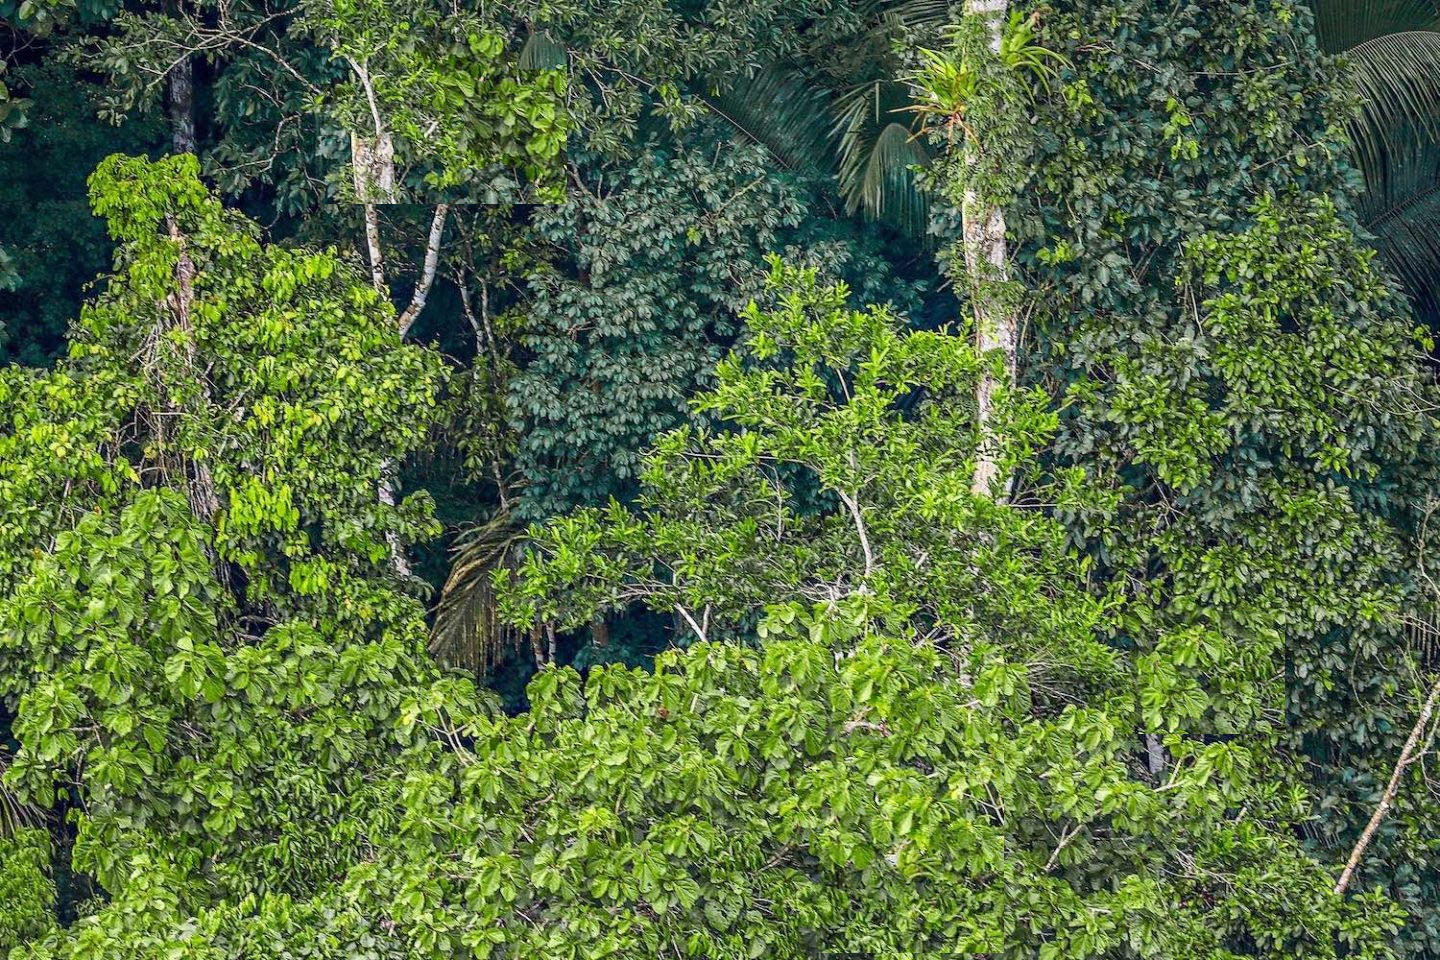
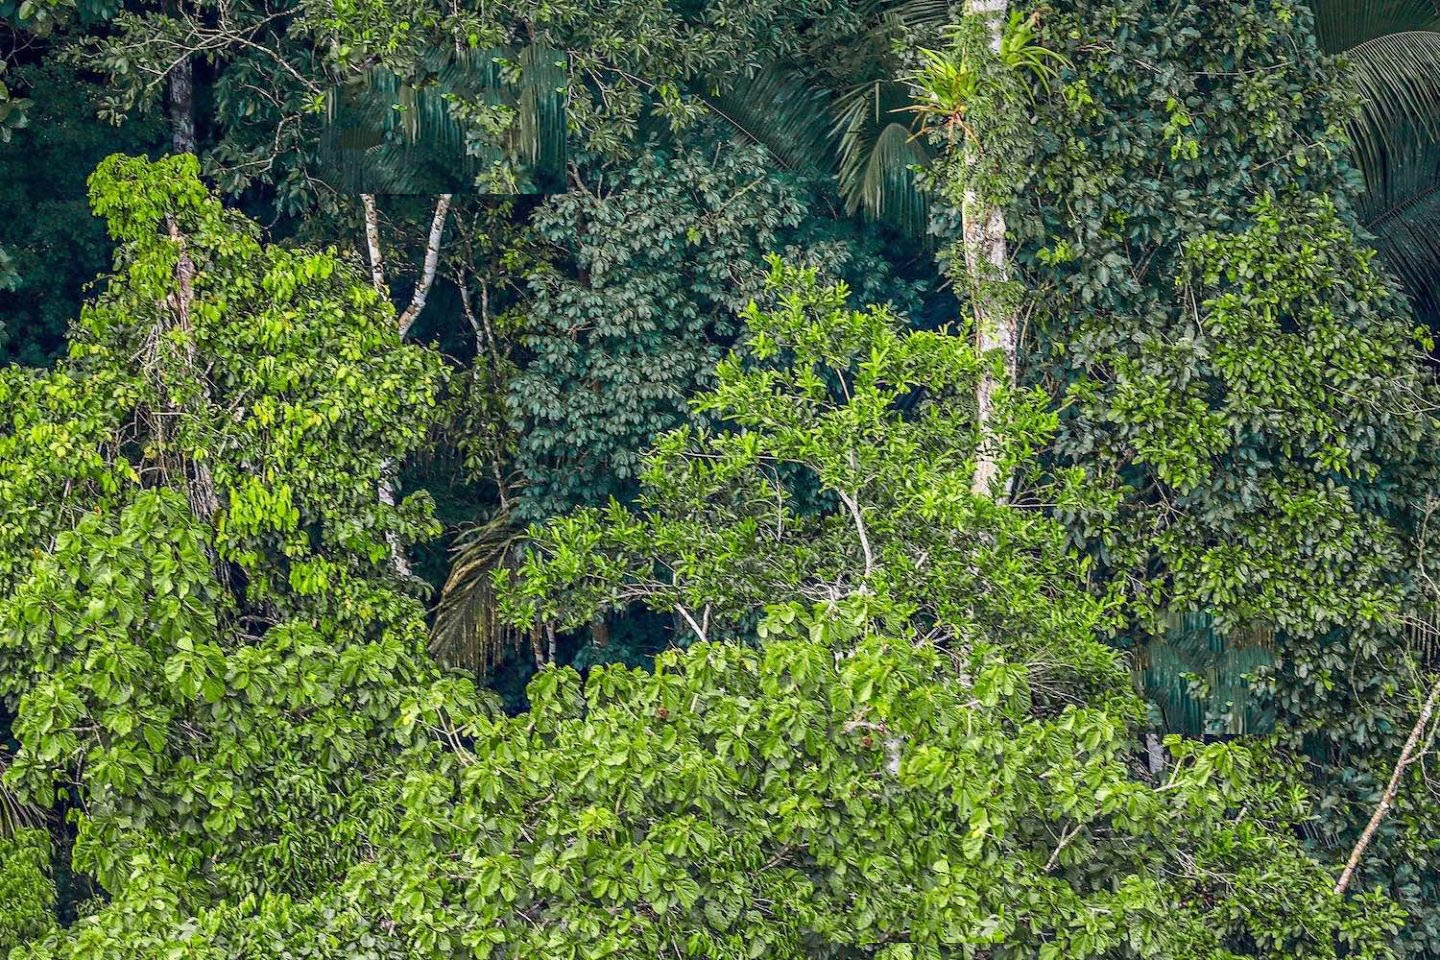
q3 completed - minor changes in utils

Changed region(s): [[0.5625, 0.75, 0.7188, 1.0], [0.2188, 0.0312, 0.4062, 0.2188], [0.7812, 0.625, 0.9062, 0.7812]]

diff --git a/HW3/q3.py b/HW3/q3.py
@@ -31,7 +31,7 @@ def removeHolesFromResult(match_result, hole_indices):
         match_result[x1:x2, y1:y2] = np.inf
     
 
-def updateTexture(syn_tex, tex, M_p, N_p, M_i, N_i, x_s, x_f, y_s, y_f, x_thr, y_thr, rand_sel, hole_indices, mode):
+def updateTexture(syn_tex, tex, M_p, N_p, M_i, N_i, x_s, x_f, y_s, y_f, x_thr, y_thr, rand_sel, hole_indices):
     "updates texture at each step"
     "syn_text: synthesized texture to be updated at each step"
     "tex: original texture"
@@ -42,126 +42,117 @@ def updateTexture(syn_tex, tex, M_p, N_p, M_i, N_i, x_s, x_f, y_s, y_f, x_thr, y
     "y_s & y_f: start and final y indices"
     "x_thr & y_thr: x and y threshold used in extracting patches"
     "rand_sel: number of random choices for choosing patch at each step"
-    "mode: determines shape of patch (0:L shape, 1:U shape last col, 2:U shape last row)"
 
     patch = np.copy(syn_tex[x_s:x_s+M_p, y_s:y_s+N_p, :])
 
-    if mode == 0:
-        mask_template = np.ones(patch.shape, dtype=np.uint8)
-        mask_template[x_thr:, y_thr:, :] = np.zeros((M_p-x_thr, N_p-y_thr, 3), dtype=np.uint8)
+    mask_template = np.ones(patch.shape, dtype=np.uint8)
+    mask_template[x_thr:, y_thr:, :] = np.zeros((M_p-x_thr, N_p-y_thr, 3), dtype=np.uint8)
+    
+    matching_result = cv2.matchTemplate(tex, patch, cv2.TM_SQDIFF_NORMED, mask=mask_template)
+    
+    # remove results of holes:
+    removeHolesFromResult(matching_result, hole_indices)
+
+    matching_indices = np.unravel_index(np.argsort(matching_result, axis=None)[0:rand_sel], 
+                                                    matching_result.shape)
+    
+    random_index = np.random.randint(low=0, high=rand_sel)
+    matching_indices = np.array([matching_indices[0][random_index], matching_indices[1][random_index]])
+    
+    found_patch = tex[matching_indices[0]:matching_indices[0]+M_p, 
+                        matching_indices[1]:matching_indices[1]+N_p]
+
+    ssd_result_x = (patch[0:x_thr, :, :].astype(np.float64) - found_patch[0:x_thr, :, :].astype(np.float64))**2
+    ssd_result_x = np.sum(ssd_result_x, axis=2)
+
+    ssd_result_y = (patch[:, 0:y_thr, :].astype(np.float64) - found_patch[:, 0:y_thr, :].astype(np.float64))**2
+    ssd_result_y = np.sum(ssd_result_y, axis=2)
+
+    path_x = utl.findMinCut(ssd_result_x, mode="COL")
+    path_y = utl.findMinCut(ssd_result_y, mode="ROW")
+
+    # replace found patch (next it will be corrected)
+    syn_tex[x_s:x_s+M_p, y_s:y_s+N_p, :] = found_patch
+
+    mat_path_x = np.zeros((M_p, N_p), dtype=int)
+    mat_path_y = np.zeros((M_p, N_p), dtype=int)
+
+    for i in range(N_p):
+        mat_path_x[path_x[0, i], i] = 1
+    
+    for i in range(M_p):
+        mat_path_y[i, path_y[i, 0]] = 1
+
+    #repr = np.zeros((M_p, N_p, 3), dtype=int)
+    #repr[:, :, 0] = mat_path_x
+    #repr[:, :, 2] = mat_path_y
+    #repr *= 255
+    
+    # mat_final showes boundries of patches
+    tmp_mat = mat_path_x[0:x_thr, 0:y_thr] & mat_path_y[0:x_thr, 0:y_thr]
+    common_points = np.nonzero(tmp_mat == 1)
+    if common_points[0].shape[0]:
+        common_point = (common_points[0][-1], common_points[1][-1])
+
+        mat_path_x[:, 0:common_point[1]] = 0
+        mat_path_y[0:common_point[0], :] = 0   
+    else:
+        # no collision found - shift one to the right and check again
+        mat_shifted = np.concatenate([np.zeros((x_thr, 1), dtype=int),
+                                        mat_path_x[0:x_thr, 0:y_thr-1]], axis=1)
         
-        matching_result = cv2.matchTemplate(tex, patch, cv2.TM_SQDIFF_NORMED, mask=mask_template)
-        
-        # remove results of holes:
-        removeHolesFromResult(matching_result, hole_indices)
-
-        matching_indices = np.unravel_index(np.argsort(matching_result, axis=None)[0:rand_sel], 
-                                                        matching_result.shape)
-        
-        random_index = np.random.randint(low=0, high=rand_sel)
-        matching_indices = np.array([matching_indices[0][random_index], matching_indices[1][random_index]])
-        #print(matching_indices)
-
-        found_patch = tex[matching_indices[0]:matching_indices[0]+M_p, 
-                            matching_indices[1]:matching_indices[1]+N_p]
-
-        ssd_result_x = (patch[0:x_thr, :, :].astype(np.float64) - found_patch[0:x_thr, :, :].astype(np.float64))**2
-        ssd_result_x = np.sum(ssd_result_x, axis=2)
-
-        ssd_result_y = (patch[:, 0:y_thr, :].astype(np.float64) - found_patch[:, 0:y_thr, :].astype(np.float64))**2
-        ssd_result_y = np.sum(ssd_result_y, axis=2)
-
-        path_x = utl.findMinCut(ssd_result_x, mode="COL")
-        path_y = utl.findMinCut(ssd_result_y, mode="ROW")
-
-        # replace found patch (next it will be corrected)
-        syn_tex[x_s:x_s+M_p, y_s:y_s+N_p, :] = found_patch
-
-        mat_path_x = np.zeros((M_p, N_p), dtype=int)
-        mat_path_y = np.zeros((M_p, N_p), dtype=int)
-
-        for i in range(N_p):
-            mat_path_x[path_x[0, i], i] = 1
-        
-        for i in range(M_p):
-            mat_path_y[i, path_y[i, 0]] = 1
-
-        repr = np.zeros((M_p, N_p, 3), dtype=int)
-        repr[:, :, 0] = mat_path_x
-        repr[:, :, 2] = mat_path_y
-        repr *= 255
-        
-        # mat_final showes boundries of patches
-        tmp_mat = mat_path_x[0:x_thr, 0:y_thr] & mat_path_y[0:x_thr, 0:y_thr]
+        tmp_mat = mat_shifted & mat_path_y[0:x_thr, 0:y_thr]
         common_points = np.nonzero(tmp_mat == 1)
-        if common_points[0].shape[0]:
-            common_point = (common_points[0][-1], common_points[1][-1])
+        common_point = (common_points[0][-1], common_points[1][-1])
 
-            mat_path_x[:, 0:common_point[1]] = 0
-            mat_path_y[0:common_point[0], :] = 0   
-        else:
-            # no collision found - shift one to the right and check again
-            mat_shifted = np.concatenate([np.zeros((x_thr, 1), dtype=int),
-                                            mat_path_x[0:x_thr, 0:y_thr-1]], axis=1)
-            
-            tmp_mat = mat_shifted & mat_path_y[0:x_thr, 0:y_thr]
-            common_points = np.nonzero(tmp_mat == 1)
-            common_point = (common_points[0][-1], common_points[1][-1])
-
-            mat_path_x[:, 0:common_point[1]] = 0
-            mat_path_y[0:common_point[0], :] = 0   
-            
-        mat_final = mat_path_x | mat_path_y
+        mat_path_x[:, 0:common_point[1]] = 0
+        mat_path_y[0:common_point[0], :] = 0   
         
-        # traverse for each row
-        for i in range(M_p):
-            flag = False
-            for j in range(N_p):
-                # we have reached the boundry
-                if mat_final[i, j] == 1:
-                    flag = True
-                    syn_tex[x_s+i, y_s:y_s+j] = patch[i, 0:j]
-                    break
-            if not flag:
-                # no boundry is found:
-                syn_tex[x_s+i, y_s:y_s+N_p] = patch[i, :]
-
+    mat_final = mat_path_x | mat_path_y
+        
+    # traverse for each row
+    for i in range(M_p):
+        flag = False
         for j in range(N_p):
-            flag = False    
-            for i in range(M_p):
-                if mat_final[i, j] == 1:
-                    flag = True
-                    syn_tex[x_s:x_s+i, y_s+j] = patch[0:i, j]
-                    break
-            if not flag:
-                syn_tex[x_s:x_s+M_p, y_s+j] = patch[:, j]
-    if mode == 1:
-        mask_template = np.ones(patch.shape, dtype=np.uint8)
-        mask_template[x_thr:, y_thr:-y_thr, :] = np.zeros((M_p-x_thr, N_p-2*y_thr, 3), dtype=np.uint8)
+            # we have reached the boundry
+            if mat_final[i, j] == 1:
+                flag = True
+                syn_tex[x_s+i, y_s:y_s+j] = patch[i, 0:j]
+                break
+        if not flag:
+            # no boundry is found:
+            syn_tex[x_s+i, y_s:y_s+N_p] = patch[i, :]
 
-        matching_result = cv2.matchTemplate(tex, patch, cv2.TM_SQDIFF_NORMED, mask=mask_template)
-        removeHolesFromResult(matching_result, hole_indices)
+    for j in range(N_p):
+        flag = False    
+        for i in range(M_p):
+            if mat_final[i, j] == 1:
+                flag = True
+                syn_tex[x_s:x_s+i, y_s+j] = patch[0:i, j]
+                break
+        if not flag:
+            syn_tex[x_s:x_s+M_p, y_s+j] = patch[:, j]
 
 
-    if mode == 2:
-        pass
+
+   
 # ------------------------ MAIN ------------------------------- #
-img = cv2.imread("im04-hole.jpg", cv2.IMREAD_COLOR)
+img = cv2.imread("im03-hole.jpg", cv2.IMREAD_COLOR)
 
 ################### parameters #########################
 # hole borders dictionary in the [x_left, x_right, y_top, y_bottom] format
 #im04 holes border:
-holes = {0:[684, 1170, 728, 970]}
+#holes = {0:[684, 1170, 728, 970]}
 
 #im03 holes border:
-#holes = {0:[54, 167, 327, 543], 1:[614, 710, 1135, 1252], 2:[743, 931, 824, 976]}
+holes = {0:[54, 167, 327, 543], 1:[614, 710, 1135, 1252], 2:[743, 931, 824, 976]}
 # overlapping threshold
-x_thr = 20
-y_thr = 20
+x_thr = 10
+y_thr = 10
 # patch size 
-M_p, N_p = 50, 50
+M_p, N_p = 30, 30
 
-random_select = 5
+random_select = 10
 
 
 for k in range(len(holes)):
@@ -169,7 +160,6 @@ for k in range(len(holes)):
     img_hole = img[holes[k][0]-M_p:holes[k][1]+M_p, holes[k][2]-N_p: holes[k][3]+N_p, :]
     #utl.showImg(img_hole, 1, 'hole')
     M_i, N_i, _ = img_hole.shape
-    print(M_i, N_i)
     print("Filling hole {}".format(k))
     for i in range(1, (M_i - M_p) // (M_p - x_thr) + 1):
         for j in range(1, (N_i - N_p) // (N_p - y_thr) + 1):
@@ -178,26 +168,11 @@ for k in range(len(holes)):
             y_end = j*N_p-(j-1)*(y_thr)
             y_start = y_end - y_thr
 
-            #print(x_start, x_end)
-            #print(y_start, y_end)
-            #print("------------------")
-
-            if i > 0:
-                if i < (M_i - M_p) // (M_p - x_thr) and j == (N_i - N_p) // (N_p - y_thr):
-                    # synthesizing U shape in last col
-                    mode = 0   
-                elif i == (M_i - M_p) // (M_p - x_thr) and j < (N_i - N_p) // (N_p - y_thr):
-                    # synthesizing U shape in last row
-                    mode = 0
-                else: 
-                    # synthesizing L shape and last tile
-                    mode = 0
-                updateTexture(img_hole, img, M_p, N_p,
+            updateTexture(img_hole, img, M_p, N_p,
                           M_i, N_i, x_start, x_end, y_start, y_end,
-                          x_thr, y_thr, random_select, holes, mode)
+                          x_thr, y_thr, random_select, holes)
             
-            
-    img[holes[k][0]-M_p:holes[k][1]+M_p, holes[k][2]-N_p: holes[k][3]+N_p, :] = img_hole
+    img[holes[k][0]-M_p:holes[k][1]+M_p, holes[k][2]-N_p:holes[k][3]+N_p, :] = img_hole
 
 #utl.showImg(img_hole, 1)
-cv2.imwrite('im04-filled.jpg', img)
+cv2.imwrite('im03-filled.jpg', img)

diff --git a/HW3/utils.py b/HW3/utils.py
@@ -41,7 +41,11 @@ def calGaussFilter(dsize, sigma, normal=False):
 
 def showImg(img, res_factor, title='input image', wait_flag=True):
     res = (int(img.shape[1]*res_factor), int(img.shape[0]*res_factor))
-    img_show = cv2.resize(img, res)
+    if res_factor >= 1:
+        img_show = cv2.resize(img, res, interpolation=cv2.INTER_LINEAR)
+    else:
+        img_show = cv2.resize(img, res, interpolation=cv2.INTER_AREA)
+
     cv2.imshow(title, img_show)
     if wait_flag:
         cv2.waitKey(0)
